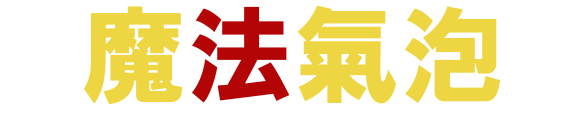
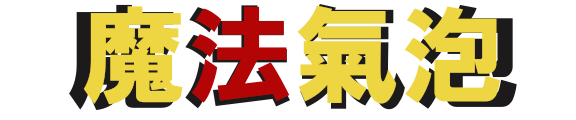
Title完成

diff --git a/Project2/Stage.cpp b/Project2/Stage.cpp
@@ -29,7 +29,7 @@ Stage::Stage(Vector2&& offset, Vector2&& size)
 	_blocksize = 32;
 	_stgmode = StgMode::DROP;
 	init();
-	puyo = std::make_unique<Puyo>(Vector2{ 16+32,16+32 }, PuyoID::Red);
+	puyo = std::make_unique<Puyo>(Vector2{ offset.x+16,offset.y+16 }, PuyoID::Red);
 }
 
 Stage::~Stage()
@@ -45,7 +45,7 @@ void Stage::Draw(void)
 {
 	//SetDrawScreen(_screenID);
 	//ClsDrawScreen();
-	DrawBox(0,0,_size.x* STAGE_MAP_X-1, _size.y * STAGE_MAP_Y-1,0xffffff,true);
+	DrawBox(_offset.x,_offset.y,_size.x* STAGE_MAP_X-1, _size.y * STAGE_MAP_Y-1,0x000000,true);
 	//DrawBox(_size.x * STAGE_MAP);
 	if (InstancePuyo())
 	{
@@ -108,17 +108,18 @@ bool Stage::init(void)
 		controller = std::make_unique<Pad>();
 	}
 	controller->Setup(_id);
+	InstancePuyo();
 	return true;
 }
 
 bool Stage::InstancePuyo(void)
 {
-/*	auto pos1 = Vector2{ _blocksize / 2 + _blocksize * 3, _blocksize };
-	auto pos2 = Vector2{ _blocksize / 2 + _blocksize * 3, _blocksize + _blocksize / 2 };
+	auto pos1 = Vector2{_offset.x+16,_offset.y+16 };
+	auto pos2 = Vector2{ _offset.x + 16,_offset.y + 16 + _blocksize };
 	auto id = puyo->GetID();
-	PuyoVec.emplace(PuyoVec.begin(), std::make_unique<Puyo>(pos1));
+	PuyoVec.emplace(PuyoVec.begin(), std::make_unique<Puyo>(pos1,id));
 	id = puyo->GetID();
-	PuyoVec.emplace(PuyoVec.begin()+1, std::make_unique<Puyo>(pos2))*/;
+	PuyoVec.emplace(PuyoVec.begin()+1, std::make_unique<Puyo>(pos2,id));
 
 	return true;
 }

diff --git a/Project2/Scene/Title.cpp b/Project2/Scene/Title.cpp
@@ -5,9 +5,20 @@
 #include"../Stage.h"
 #include "Game.h"
 
+Title::Title()
+{
+	TitleBG = LoadGraph("image/T_BG.png");
+	TitleLogo = LoadGraph("image/TitleLog.png");
+	pos = {192,128};
+}
+
+Title::~Title()
+{
+}
+
 void Title::Updata()
 {
-	if (!CheckHitKey(KEY_INPUT_SPACE))
+	if (CheckHitKey(KEY_INPUT_SPACE))
 	{
 		lpScene.ChangeScene(SCENE::GAME);
 	}
@@ -20,4 +31,8 @@ void Title::Updata()
 void Title::Draw()
 {
 	DrawBox(50, 50, 100, 100, 0xff00ff, true);
+	DrawGraph(0,0, TitleBG,true);
+	SetDrawBlendMode(DX_BLENDMODE_ALPHA, lpScene.colortimer);
+	DrawGraph(pos.x, pos.y-(lpScene.colortimer/5), TitleLogo, true);
+	SetDrawBlendMode(DX_BLENDMODE_NOBLEND,0);
 }

diff --git a/Project2/Scene/Scenemanager.cpp b/Project2/Scene/Scenemanager.cpp
@@ -19,7 +19,10 @@ void SceneManager::Run(void)
 
 	m_pScene->Draw();
 	m_pScene->Updata();
-
+	if (colortimer < 255)
+	{
+		colortimer++;
+	}
 	time++;
 }
 
@@ -45,7 +48,7 @@ void SceneManager::ChangeScene(SCENE scene)
 	}
 }
 
-SceneManager::SceneManager() : pos(75, 70), screensize(960, 480), screenOffset(64, 32), time(0), color(0xffffff)
+SceneManager::SceneManager() : pos(75, 70), screensize(960, 480), screenOffset(64, 32), time(0), color(0xffffff), colortimer(0)
 {
 	m_pScene = new Title();
 }

diff --git a/Project2/puyo/Puyo.cpp b/Project2/puyo/Puyo.cpp
@@ -55,7 +55,8 @@ void Puyo::Move(InputID id)
 void Puyo::Draw(void)
 {
     auto num = GetID();
-    DrawCircle(_pos.x, _pos.y, _size.x/2, _puyocolor[_id],true);
+    DrawCircle(_pos.x, _pos.y, _size.x/2+2, 0xffffff,true);
+    DrawCircle(_pos.x, _pos.y, _size.x / 2, _puyocolor[_id], true);
     //DrawCircle(0, 0, 16, _puyocolor[_id],true);
 }
 

diff --git a/Project2/Scene/Game.cpp b/Project2/Scene/Game.cpp
@@ -10,6 +10,7 @@ Game::Game()
 	Vector2 offset = lpScene.screenOffset;
 	Vector2 size(32, 32);
 	stage = std::make_unique<Stage>(std::move(offset), std::move(size));
+	BG = LoadGraph("image/BG.png");
 }
 
 Game::~Game()
@@ -24,5 +25,6 @@ void Game::Updata()
 
 void Game::Draw()
 {
+	DrawGraph(0,0,BG,true);
 	stage->GetStageDraw();
 }

diff --git a/Project2/Scene/Title.h b/Project2/Scene/Title.h
@@ -6,9 +6,14 @@ class Title :
 	public BaseScene
 {
 public:
+	Title();
+	~Title();
 	void Updata() override;
 	void Draw() override;
 private:
+	int TitleBG;
+	int TitleLogo;
+
 	std::unique_ptr<Controller> controller;
 	Vector2 pos;
 };

diff --git a/Project2/Scene/Scenemanager.h b/Project2/Scene/Scenemanager.h
@@ -27,6 +27,7 @@ public:
 	const Vector2 screensize;
 	const Vector2 screenOffset;
 
+	int colortimer;
 private:
 	SceneManager();
 	~SceneManager();

diff --git a/Project2/Scene/Game.h b/Project2/Scene/Game.h
@@ -14,7 +14,7 @@ public:
 private:
 	std::unique_ptr<Controller> controller;
 	Vector2 pos;
-
+	int BG;
 
 	std::unique_ptr<Stage> stage;
 };
